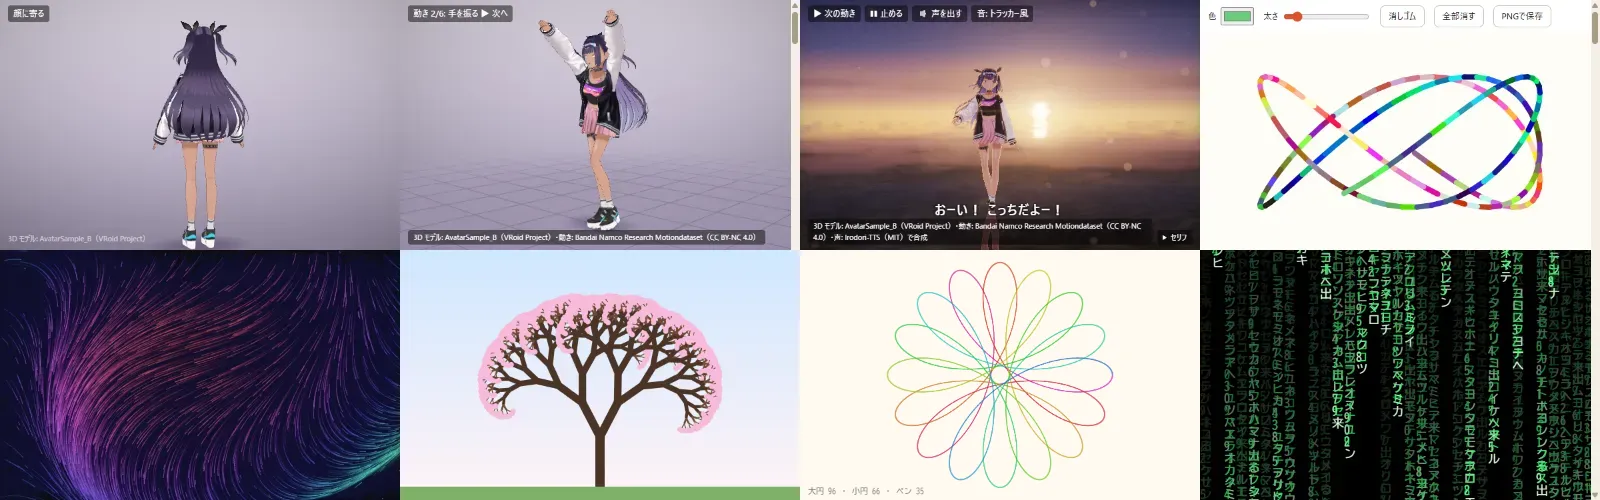
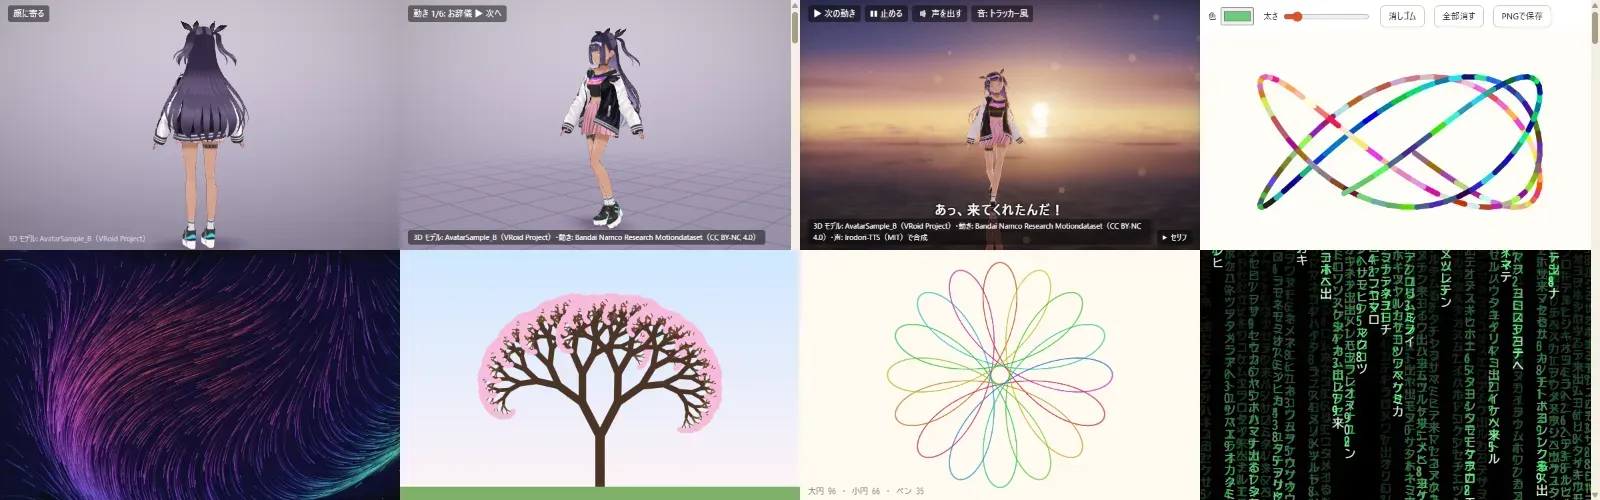
一覧の静止画: main に入った 17 項目を撮る（数式 4・20 行 10・目線を直した 3D 2・今日の話題 1）

diff --git a/js/thumbs.js b/js/thumbs.js
@@ -1,6 +1,7 @@
 // 一覧のカードの静止画の目録。node tools/thumbs.mjs が作る。手で直さない
-window.DEKIRU_THUMBS = {"v":1,"w":400,"h":250,"cols":4,"rows":2,"sheets":["68d72c","4e08da","19ffa2","dd35ff","dd3a9c","60fbf0","63e81e","b7a4d3","686b21","92cefe","eb8186","f2066e","fa52c6","2a91ab","37d693","24ab4a","5a54cd","f752e7","d5e527","6c6f03","a925dd","52db0c","cf580e","4ff3cb","e52822","8d4c85","86cb75","aea336","88ed5d","d743dc","151077","a2a63d","026310","3bb873","eda318","f2d7f7","5b432b","315430","5da556","f6d5b0","4c1b0f","a1602a","17a31a","899807","4aa5ef","74e1f4","5c3a3a","18757a","ce7b78","9b8854","d15b89","b18e2c","f68cc0","50dd37","d7bec3","1b14a4","f18ac2"],"at":{
+window.DEKIRU_THUMBS = {"v":1,"w":400,"h":250,"cols":4,"rows":2,"sheets":["68d72c","4e08da","19ffa2","dd35ff","dd3a9c","60fbf0","63e81e","b7a4d3","686b21","92cefe","eb8186","f2066e","45a218","2a91ab","37d693","24ab4a","5a54cd","f752e7","d5e527","6c6f03","a925dd","52db0c","cf580e","4ff3cb","e52822","8d4c85","86cb75","aea336","88ed5d","d743dc","151077","a2a63d","026310","3bb873","eda318","f2d7f7","5b432b","315430","5da556","f6d5b0","4c1b0f","a1602a","17a31a","899807","4aa5ef","74e1f4","5c3a3a","18757a","ce7b78","9b8854","d15b89","b18e2c","f68cc0","50dd37","d7bec3","1b14a4","c3c5fd","fbea8e","b65fbf"],"at":{
 "tr-20261118-mutation-test":[0,0,"0be64d99cc"],
+"tr-20261118-romer-light":[56,7,"57942daca2"],
 "tr-20261117-rupert-passage":[0,1,"30497f8cc3"],
 "shape-heart":[0,2,"daa650785f"],
 "shape-triangles":[0,3,"d572ed1325"],
@@ -97,8 +98,8 @@ window.DEKIRU_THUMBS = {"v":1,"w":400,"h":250,"cols":4,"rows":2,"sheets":["68d72
 "3d-noise-blob":[11,6,"7db1946b72"],
 "3d-coverflow":[11,7,"fa0be19767"],
 "3d-vroid-toon":[12,0,"0255b0961b"],
-"3d-vroid-motion":[12,1,"1f5a2c8482"],
-"3d-vroid-shore":[12,2,"5668dbf7b2"],
+"3d-vroid-motion":[12,1,"63aab2e7fa"],
+"3d-vroid-shore":[12,2,"6a2efe1ff4"],
 "cv-paint":[12,3,"70672b37e2"],
 "cv-flowfield":[12,4,"4fb1c2eb2f"],
 "cv-tree":[12,5,"2490da9fd9"],
@@ -326,6 +327,10 @@ window.DEKIRU_THUMBS = {"v":1,"w":400,"h":250,"cols":4,"rows":2,"sheets":["68d72
 "mt-random-walk":[40,3,"fc9cdebef4"],
 "mt-hilbert":[40,4,"6952ce7c86"],
 "mt-wave-interference":[40,5,"d6d4645b8b"],
+"mt-clifford":[57,0,"b67b929fee"],
+"mt-domain-coloring":[57,1,"be8a0e1738"],
+"mt-chladni":[57,2,"f0603a2102"],
+"mt-times-table":[57,3,"d8f4e035fd"],
 "mt-convex-hull":[40,6,"cd799f9135"],
 "mt-collatz":[40,7,"172264ccd6"],
 "dt-json-viewer":[41,0,"6aa62ecec6"],
@@ -419,6 +424,16 @@ window.DEKIRU_THUMBS = {"v":1,"w":400,"h":250,"cols":4,"rows":2,"sheets":["68d72
 "demo-4k-oldschool":[52,0,"7ffcba3667"],
 "demo-4k-dawn":[52,1,"287b49f9cb"],
 "demo-4k-city":[52,2,"a88a04791a"],
+"demo-20-blackhole":[57,4,"0aaa37c16a"],
+"demo-20-raytrace":[57,5,"b3292658ab"],
+"demo-20-planet":[57,6,"22c4a44a15"],
+"demo-20-menger":[57,7,"917c754522"],
+"demo-20-hyperbolic":[58,0,"ee887b427a"],
+"demo-20-life":[58,1,"56c75e2544"],
+"demo-20-galaxies":[58,2,"3ec17e30bb"],
+"demo-20-penrose":[58,3,"fcbc888b39"],
+"demo-20-lightning":[58,4,"96380bda23"],
+"demo-20-bytebeat":[58,5,"2adad8e06f"],
 "real-fireworks":[52,3,"5fb9af4b18"],
 "real-candle":[52,4,"cc537f3b95"],
 "real-campfire":[52,5,"b6cb46a4d8"],
